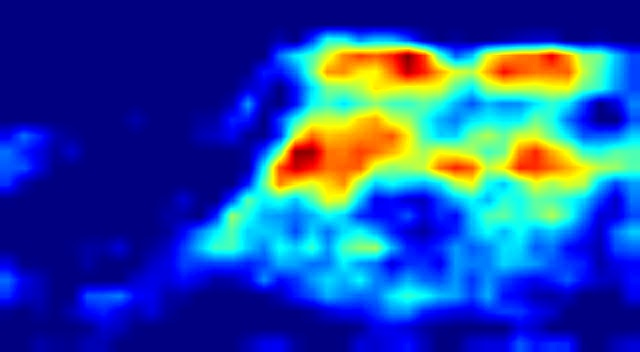
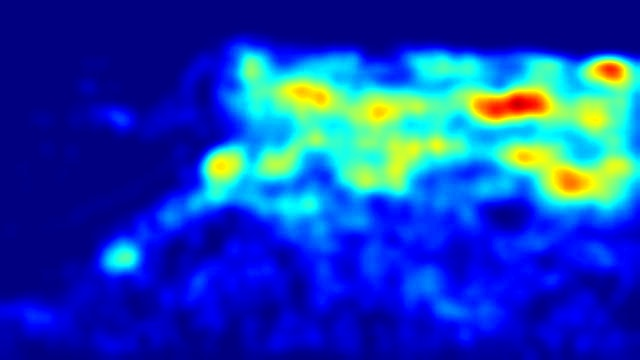
added scale and slider

diff --git a/static/js/code.js b/static/js/code.js
@@ -1,12 +1,13 @@
 pred_btn = document.querySelector('#pred_btn')
 pred_video_btn = document.querySelector('#pred_video_btn')
 stop_btn = document.querySelector('#stop_btn')
-var stop = 0
+var stop_exe = 0
 
 
 model = document.getElementById('models') // current selected model
 
 pred_txt = document.getElementById('pred_txt') // label that show the predicted count
+pred_label = document.getElementById('pred_label') // label that show the predicted count
 pred_img = document.getElementById('pred_img') // predicted density map
 
 // ip address
@@ -58,30 +59,33 @@ const predict = () => {
         .catch(err => console.log(err))
 }
 
-function get_response(url,options,data){
+function get_response(url, options, data) {
 
 
     var xhr = new XMLHttpRequest();
-    xhr.open("POST",url,false);
-    xhr.setRequestHeader("Accept","application/json");
-    xhr.setRequestHeader("Content-type","application/json");
+    xhr.open("POST", url, false);
+    xhr.setRequestHeader("Accept", "application/json");
+    xhr.setRequestHeader("Content-type", "application/json");
     xhr.send(JSON.stringify(data))
-    if(xhr.status === 200){
-    let result = JSON.parse(xhr.responseText)
-            let { pred_cnt, pred_time, device ,next_frame} = result
-            pred_cnt = parseFloat(pred_cnt).toFixed(4)
-            pred_time = parseFloat(pred_time).toFixed(4)
-            console.log(next_frame)
-         console.log(result)
+    if (xhr.status === 200) {
+        let result = JSON.parse(xhr.responseText)
+        let { pred_cnt, pred_time, device, next_frame } = result
+        pred_cnt = parseFloat(pred_cnt).toFixed(4)
+        pred_time = parseFloat(pred_time).toFixed(4)
+        // console.log(next_frame)
+        // console.log(result)
 
-            pred_txt.innerHTML = `${pred_cnt}, took ${pred_time} seconds on ${device}`
-            // pred_img.src = [url_address, 'static/map.jpg?'].join('/') + new Date().getTime()
-            /*window.location.href = "http://localhost:5000/predict/" + res;*/
-            // console.log(nextFrame)
-    // result.new_request = false;
-    return result
+        pred_txt.innerHTML = `${pred_cnt}, took ${pred_time} seconds on ${device}`
+        if(parseInt(pred_cnt) > parseInt(output.innerHTML)) {pred_txt.style.color = "red"; pred_label.style.color = "red";}
+        else {pred_txt.style.color = "green"; pred_label.style.color = "green";}
+        // pred_img.src = [url_address, 'static/map.jpg?'].join('/') + new Date().getTime()
+        /*window.location.href = "http://localhost:5000/predict/" + res;*/
+        // console.log(nextFrame)
+        // result.new_request = false;
+        return result
 
-}}
+    }
+}
 
 const predict_video = async () => {
     if (
@@ -93,10 +97,10 @@ const predict_video = async () => {
 
 
     url = [url_address, 'predict_video'].join('/')
-    let result = {next_frame: true, new_request: true}
+    let result = { next_frame: true, new_request: true }
     let data;
     let options;
-    while (result.next_frame && stop===0) {
+    while (result.next_frame && stop_exe === 0) {
         data = {
             model: model.value,
             video: true,
@@ -147,12 +151,22 @@ window.addEventListener("load", () => {
 })
 
 pred_video_btn.onclick = e => {
-    stop = 0
+    e.preventDefault()
+    stop_exe = 0
     predict_video()
 }
 pred_btn.onclick = e => {
     predict()
 }
 stop_btn.onclick = e => {
-    stop = 1;
+    console.log(stop_exe)
+    stop_exe = 1;
 }
+var slider = document.getElementById("myRange");
+var output = document.getElementById("demo");
+output.innerHTML = slider.value; // Display the default slider value
+
+// Update the current slider value (each time you drag the slider handle)
+slider.oninput = function() {
+  output.innerHTML = this.value;
+} 

diff --git a/templates/index.html b/templates/index.html
@@ -19,11 +19,12 @@
             <option value="JHU-CROWD">JHU-CROWD</option>
         </select> -->
 
-        <br />
+      
         
-        <div class="card card-body" style="width: 18rem;">
+        <div class="card card-body" style="display: flex;width: 18rem;">
             <label  for="models">Model:</label>
             <select class="btn btn-info dropdown-toggle" style=" display:flex;"name="models" id="models">
+                <option value="mcnn">MCNN</option>
                 <option value="alexnet">AlexNet</option>
                 <option value="vgg">VGG</option>
                 <option value="vgg_decoder">VGG_Decoder</option>
@@ -33,29 +34,21 @@
                 <option value="scar">SCAR</option>
                 <option value="csrnet">CSRNet</option>
                 <option value="sanet">SANet</option>
-                <option value="mcnn">MCNN</option>
             </select>
+            <br>
         </div>
-
-        <br />
-        <br />
-
-        <!-- {% include "slider.html" %} -->
-
-        <br />
-        <br />
-       <input class="btn btn-success" type="file" id="file-input" />
+        <input class="btn btn-success" type="file" id="file-input" style="margin-top: 0.5em;"/>
+        
 <!-- <button id="read-button">Read File</button>
 <pre id="file-contents"></pre> -->
         <br><br>
         <div class="btn-group">
-            <input type="button" class="btn btn-outline-secondary" style="margin-left: 0.5em"id="pred_btn" value="predict"/>
-            <input type="button" class="btn btn-outline-secondary" style="margin-left: 0.5em"id="pred_video_btn" value="predict_video"/>
-            <input type="button" class="btn btn-outline-secondary" style="margin-left: 0.5em"id="stop_btn" value="stop video"/>
+            <input type="button" class="btn btn-secondary" style="margin-left: 0.5em"id="pred_btn" value="predict"/>
+            <input type="button" class="btn btn-secondary" style="margin-left: 0.5em"id="pred_video_btn" value="predict_video"/>
+            <input type="button" class="btn btn-secondary" style="margin-left: 0.5em"id="stop_btn" value="stop video"/>
         </div>
 
-        <br />
-        <br />
+        
 
     </div>
         <div >

diff --git a/static/css/style.css b/static/css/style.css
@@ -2,12 +2,55 @@ h1 {
     font-family: Arial, Helvetica, sans-serif;
 }
 
-#body {
-    margin: 0px;
-    padding: 0px;
+body {
+    
+    background-image: url('../back.jpg');
+    background-repeat: no-repeat;
+    background-size: 100% 100%;
+    
 }
 
 .container {
     width: 100%;
     margin: 0px auto;
+    
 }
+
+.slidecontainer {
+    margin-left: 0.5em;
+  }
+  
+  /* The slider itself */
+  .slider {
+    -webkit-appearance: none;  /* Override default CSS styles */
+    appearance: none;
+    /* width: 100%; Full-width */
+    height: 25px; /* Specified height */
+    background: #d3d3d3; /* Grey background */
+    outline: none; /* Remove outline */
+    opacity: 0.7; /* Set transparency (for mouse-over effects on hover) */
+    -webkit-transition: .2s; /* 0.2 seconds transition on hover */
+    transition: opacity .2s;
+  }
+  
+  /* Mouse-over effects */
+  .slider:hover {
+    opacity: 1; /* Fully shown on mouse-over */
+  }
+  
+  /* The slider handle (use -webkit- (Chrome, Opera, Safari, Edge) and -moz- (Firefox) to override default look) */
+  .slider::-webkit-slider-thumb {
+    -webkit-appearance: none; /* Override default look */
+    appearance: none;
+    width: 25px; /* Set a specific slider handle width */
+    height: 25px; /* Slider handle height */
+    background: #04AA6D; /* Green background */
+    cursor: pointer; /* Cursor on hover */
+  }
+  
+  .slider::-moz-range-thumb {
+    width: 25px; /* Set a specific slider handle width */
+    height: 25px; /* Slider handle height */
+    background: #04AA6D; /* Green background */
+    cursor: pointer; /* Cursor on hover */
+  }

diff --git a/templates/comparison.html b/templates/comparison.html
@@ -6,22 +6,33 @@
 
 
 
-    <div style = "display: flex; justify-content: center">
-        <label id="pred_label" >pred: </label>
-        <label id="pred_txt" > 0 </label>
-    </div>
-    <br>
-    <br>
-    <div class="comparison-2 "  >
+<div style="display: flex; justify-content: center; color: white; font-weight: bold;">
+    <p id="pred_label">pred: </p>
+    <p id="pred_txt"> 0 </p>
+    
+</div>
+<div class="slidecontainer" style="display: flex; justify-content: center; color: white; font-weight: bold;">
+    <label for="myRange">Threshold</label>
+    <input type="range" min="1" max="5000" value="2500" class="slider" id="myRange">
+    <p id="demo"></p>
+</div>
+
+<div style=" display: flex; justify-content: center">
+
+    <div class="comparison-2 ">
         <div class="content">
 
-            <br>
 
-            <div >
+
+            <div>
                 <img id="pred_img" src="{{ url_for('static', filename='default.png') }}" alt="density map">
+                <br>
+                <img id="pred_img" src="{{ url_for('static', filename='scale.jpg') }}" alt="density map"
+                    style="width: 100%;">
             </div>
         </div>
     </div>
+</div>
 
 
 
